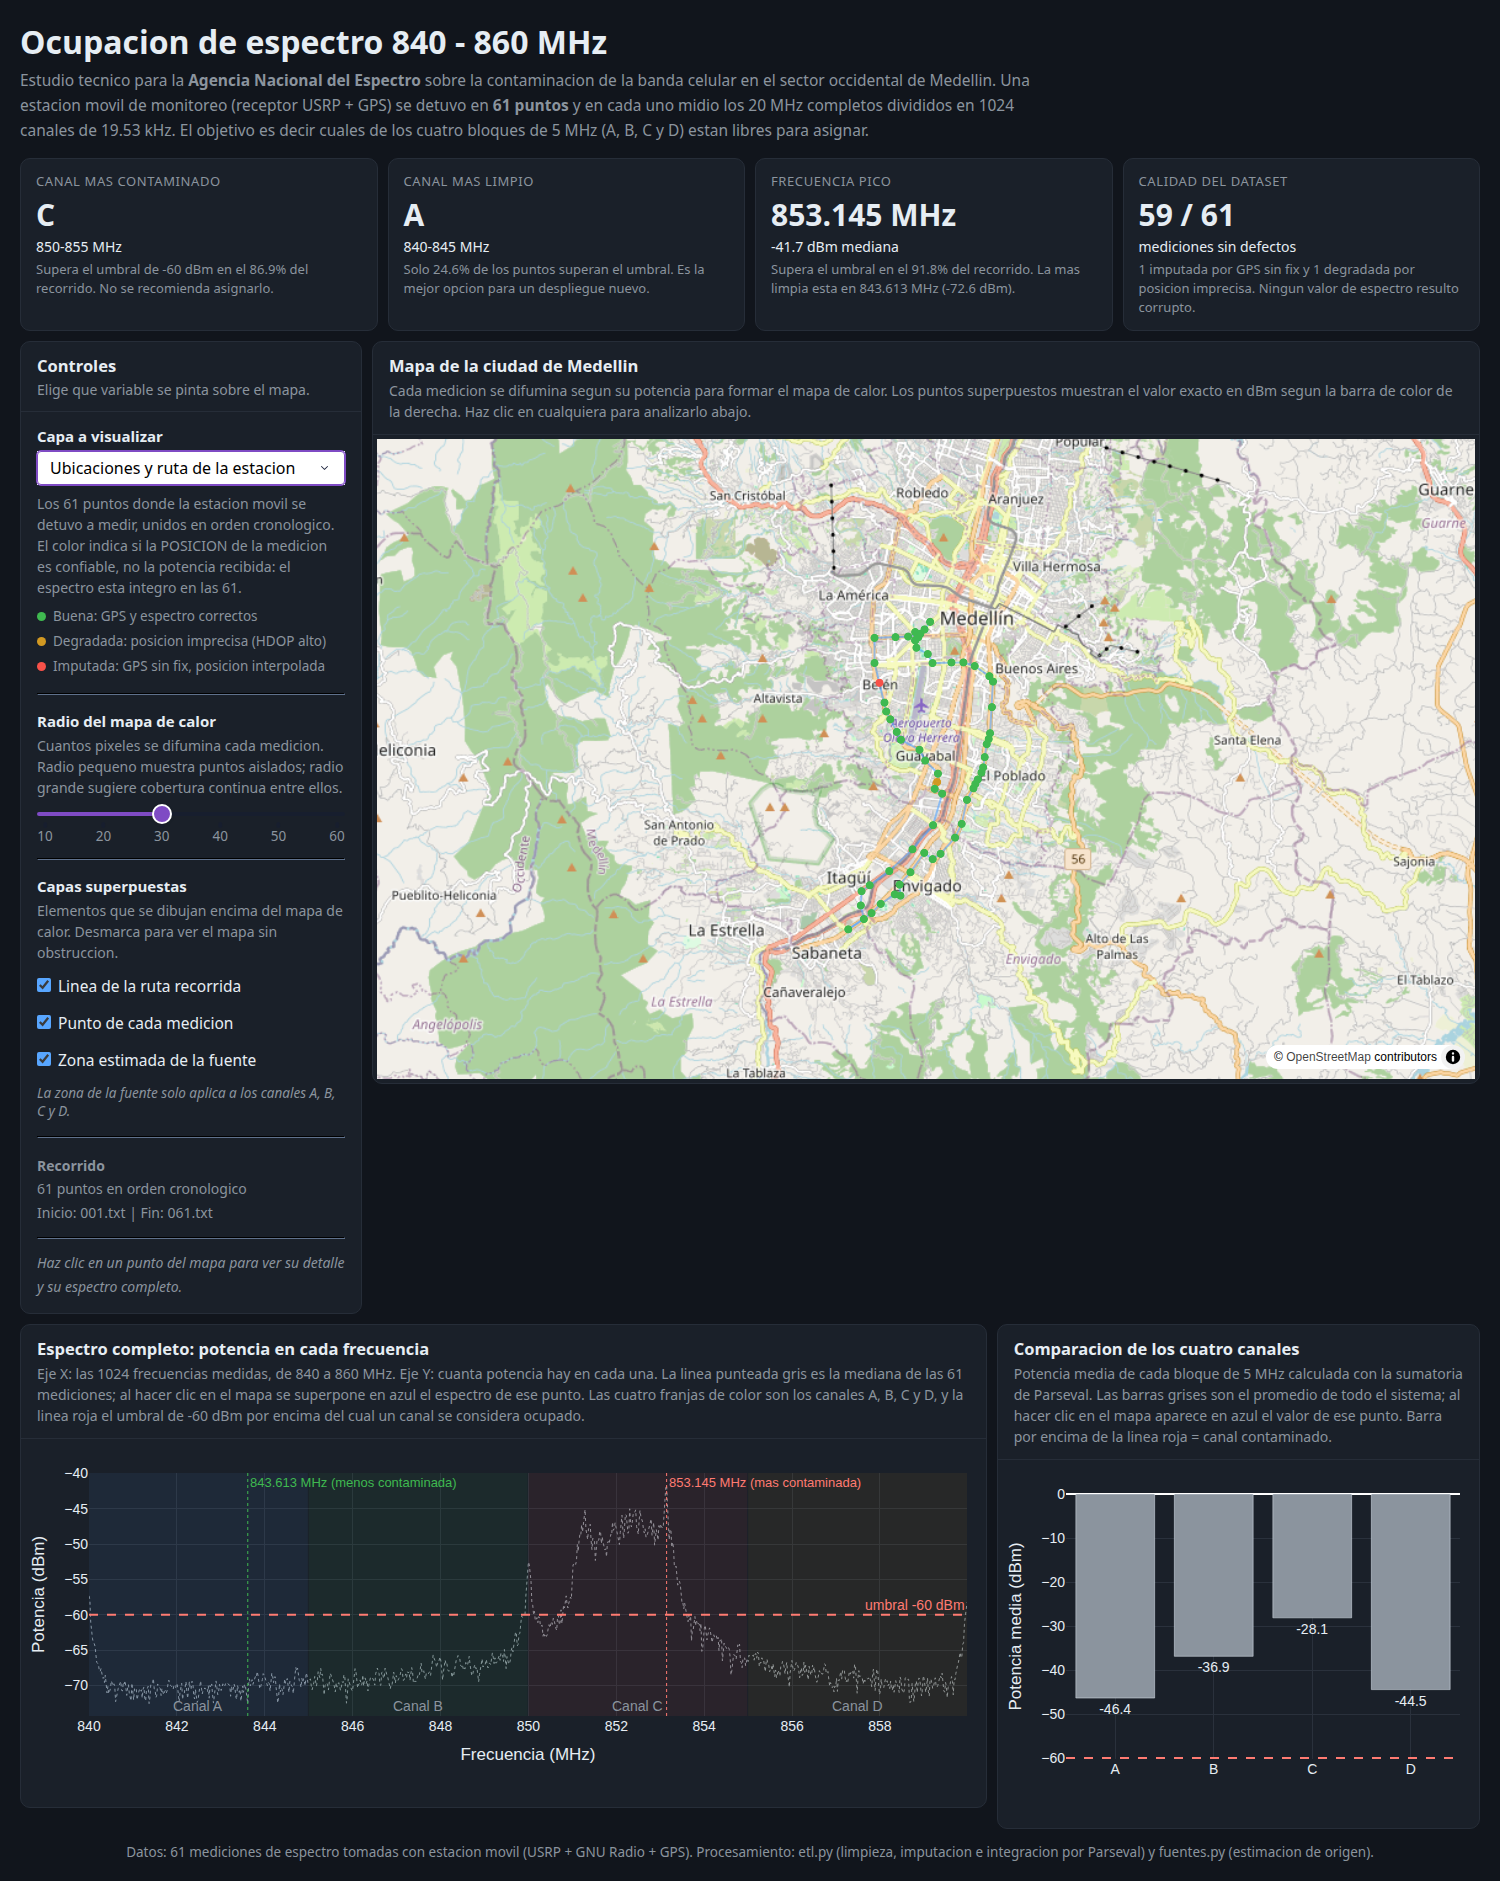
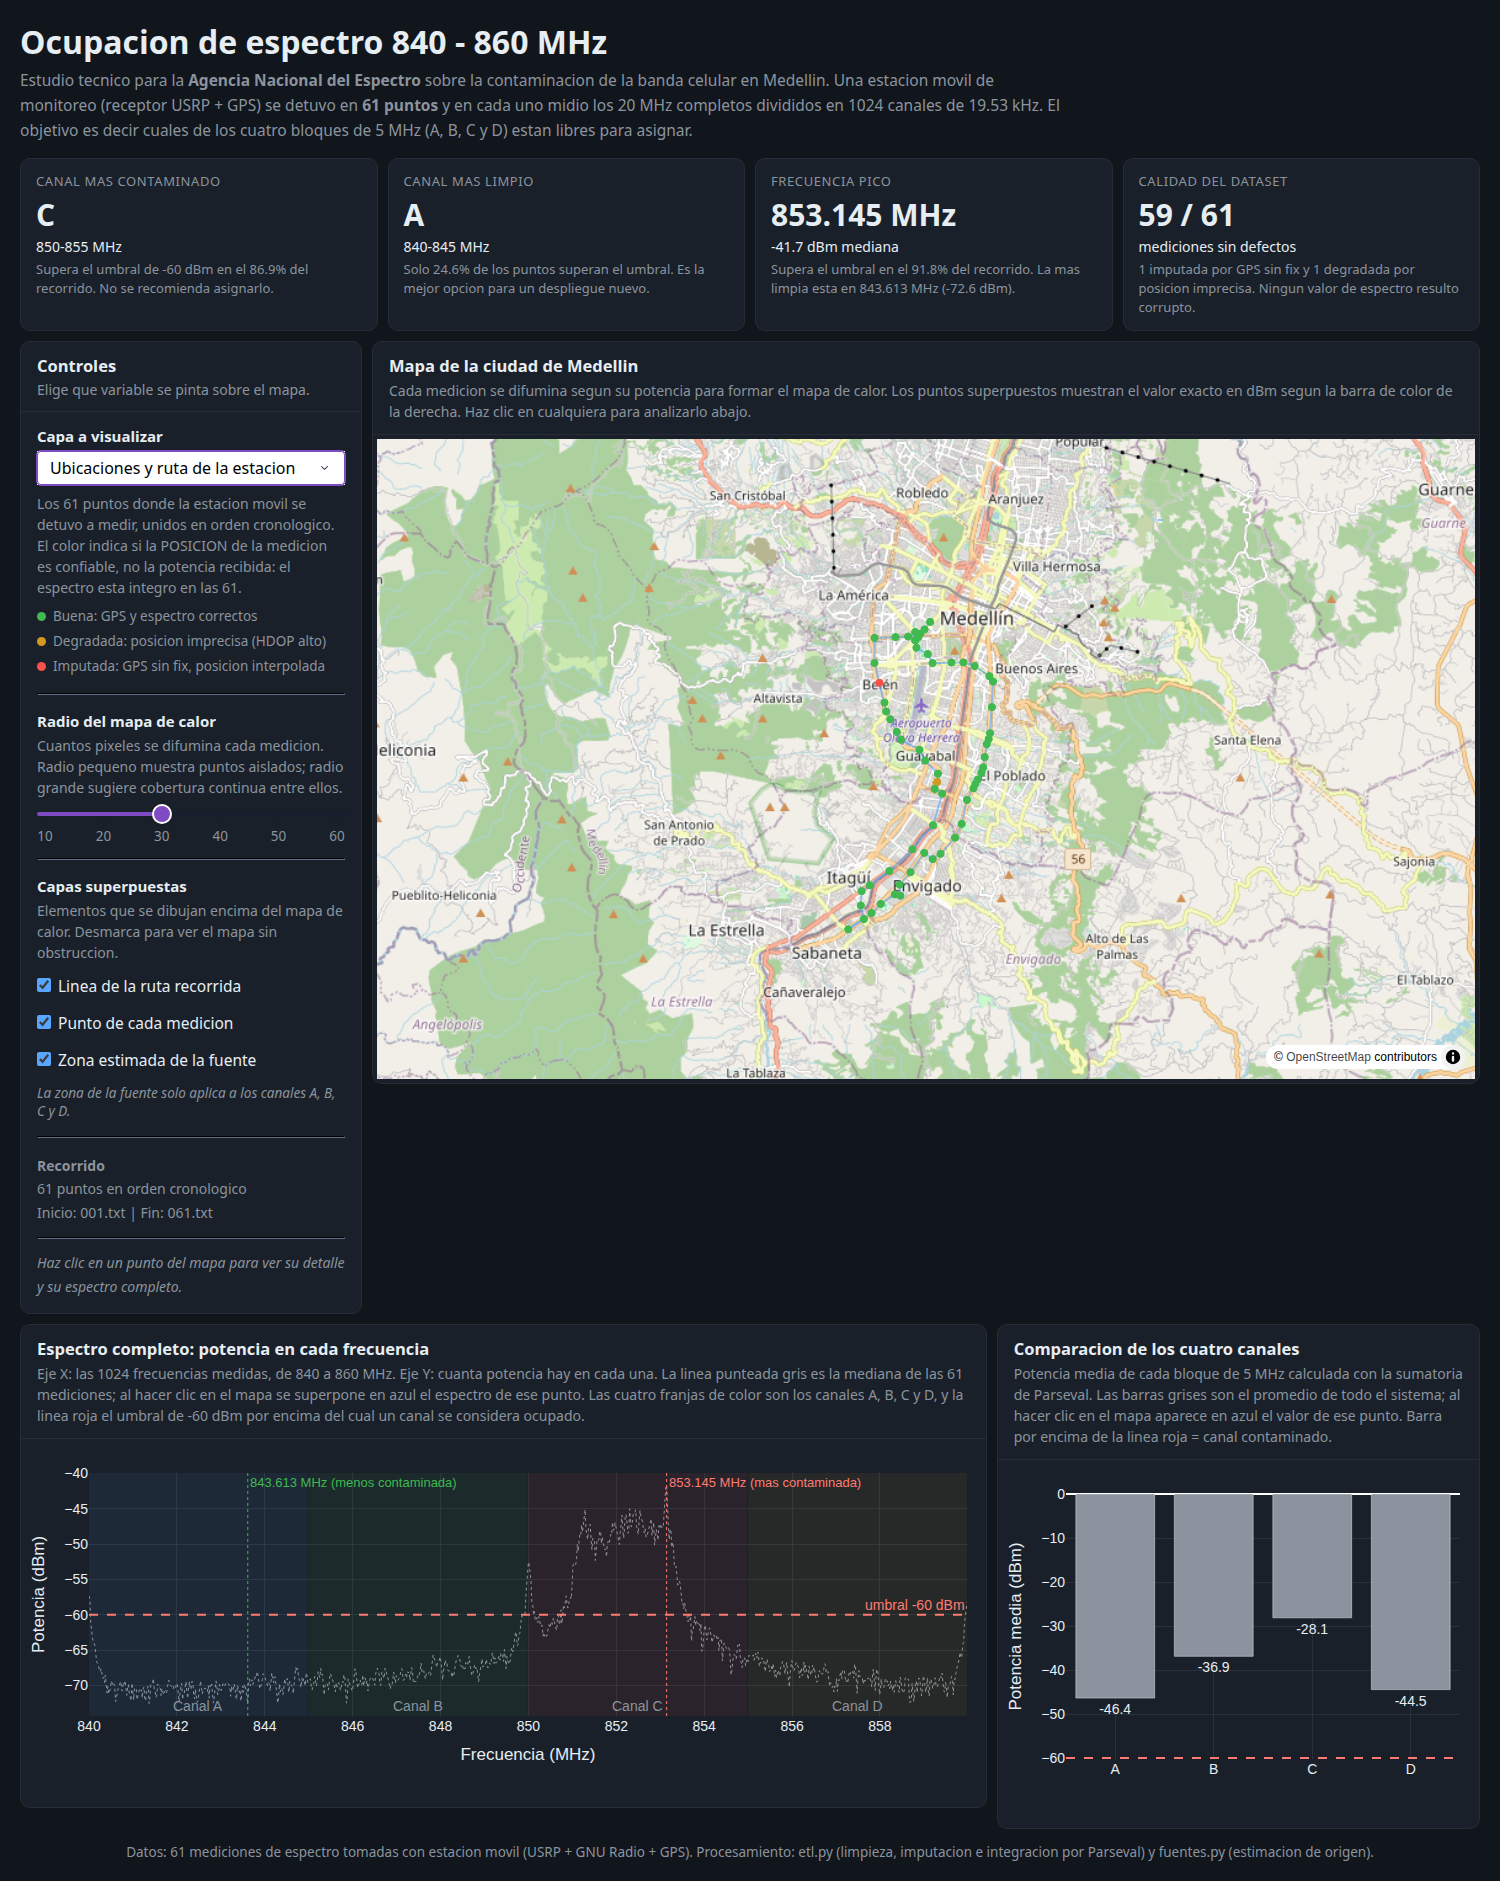
chore(output): regenerate report and dashboard captures

Changed region(s): [[0.0307, 0.0308, 0.7053, 0.0925]]

diff --git a/salida/reporte_calidad.md b/salida/reporte_calidad.md
@@ -1,8 +1,8 @@
-# Ocupación del espectro 840–860 MHz en el occidente de Medellín
+# Ocupación del espectro 840–860 MHz en Medellín
 
 ## Resumen
 
-Se analizaron 61 mediciones de espectro tomadas por una estación móvil a lo largo de 26.2 km del occidente de Medellín. La banda está contaminada de forma desigual: el canal C (850–855 MHz) supera el umbral de -60 dBm en el 87% del recorrido y no debe asignarse, mientras que el canal A (840–845 MHz) es el más limpio, con ocupación en el 25% de los puntos, y es el recomendado para nuevas asignaciones. La frecuencia más contaminada del sistema es 853.145 MHz y la más limpia 843.613 MHz. Las dos zonas de mayor potencia coinciden con estaciones base celulares ubicadas en Google Street View.
+Se analizaron 61 mediciones de espectro tomadas por una estación móvil a lo largo de un recorrido de 26.2 km por Medellín. La banda está contaminada de forma desigual: el canal C (850–855 MHz) supera el umbral de -60 dBm en el 87% del recorrido y no debe asignarse, mientras que el canal A (840–845 MHz) es el más limpio, con ocupación en el 25% de los puntos, y es el recomendado para nuevas asignaciones. La frecuencia más contaminada del sistema es 853.145 MHz y la más limpia 843.613 MHz. Las dos zonas de mayor potencia coinciden con estaciones base celulares ubicadas en Google Street View.
 
 ## 1. Calidad de los datos
 
@@ -30,7 +30,7 @@ Las otras dos mediciones con problemas no se imputan. La de HDOP alto tiene una 
 
 ## 3. Ruta de la estación móvil
 
-El orden de los archivos es el orden del recorrido, lo que permite reconstruir la ruta sin marcas de tiempo. La estación hizo un circuito de 26.2 km: salió del norte del sector (001.txt, 6.24326, -75.58667), bajó hasta el punto más al sur en 027.txt (6.15801, -75.60950) y regresó hacia el norte por un trazado más oriental hasta 061.txt. La altura varió entre 1499 y 1590 m.
+El orden de los archivos es el orden del recorrido, lo que permite reconstruir la ruta sin marcas de tiempo. La estación hizo un circuito de 26.2 km: salió del extremo norte del recorrido (001.txt, 6.24326, -75.58667), bajó hasta el punto más al sur en 027.txt (6.15801, -75.60950) y regresó hacia el norte por un trazado más oriental hasta 061.txt. La altura varió entre 1499 y 1590 m.
 
 ![Recorrido de la estación móvil](graficas/04_ruta.png)
 
@@ -84,7 +84,7 @@ Con base en la ocupación medida en los 61 puntos del recorrido, se recomienda a
 - **Canal B (845–850 MHz): no recomendado para despliegues nuevos sin coordinación.** Está ocupado en el 33% de los puntos, poco más que el D, pero con más fuerza: su potencia media es -36.9 dBm, la segunda más alta de la banda y 7.6 dB por encima de la del D (11.3 dB sin la medición saturada). Los dos limitan con el canal C, así que lo que los separa es esa diferencia de potencia.
 - **Canal C (850–855 MHz): no asignar.** Está ocupado en el 87% del recorrido; cualquier asignación nueva sufriría interferencia en prácticamente toda el área medida.
 
-Dentro del plan, conviene evitar la vecindad de 853.145 MHz y usar 843.613 MHz como referencia de piso de ruido en futuras campañas. El estudio tiene dos límites: cubre 26.2 km del occidente de la ciudad y no es extrapolable al resto del Valle de Aburrá, y son mediciones puntuales a lo largo de un recorrido, que no capturan la variación de la ocupación según la hora.
+Dentro del plan, conviene evitar la vecindad de 853.145 MHz y usar 843.613 MHz como referencia de piso de ruido en futuras campañas. El estudio tiene dos límites: cubre un recorrido de 26.2 km por la ciudad y no es extrapolable al resto del Valle de Aburrá, y son mediciones puntuales a lo largo de un recorrido, que no capturan la variación de la ocupación según la hora.
 
 ## 8. Bonificación: origen de la contaminación
 
